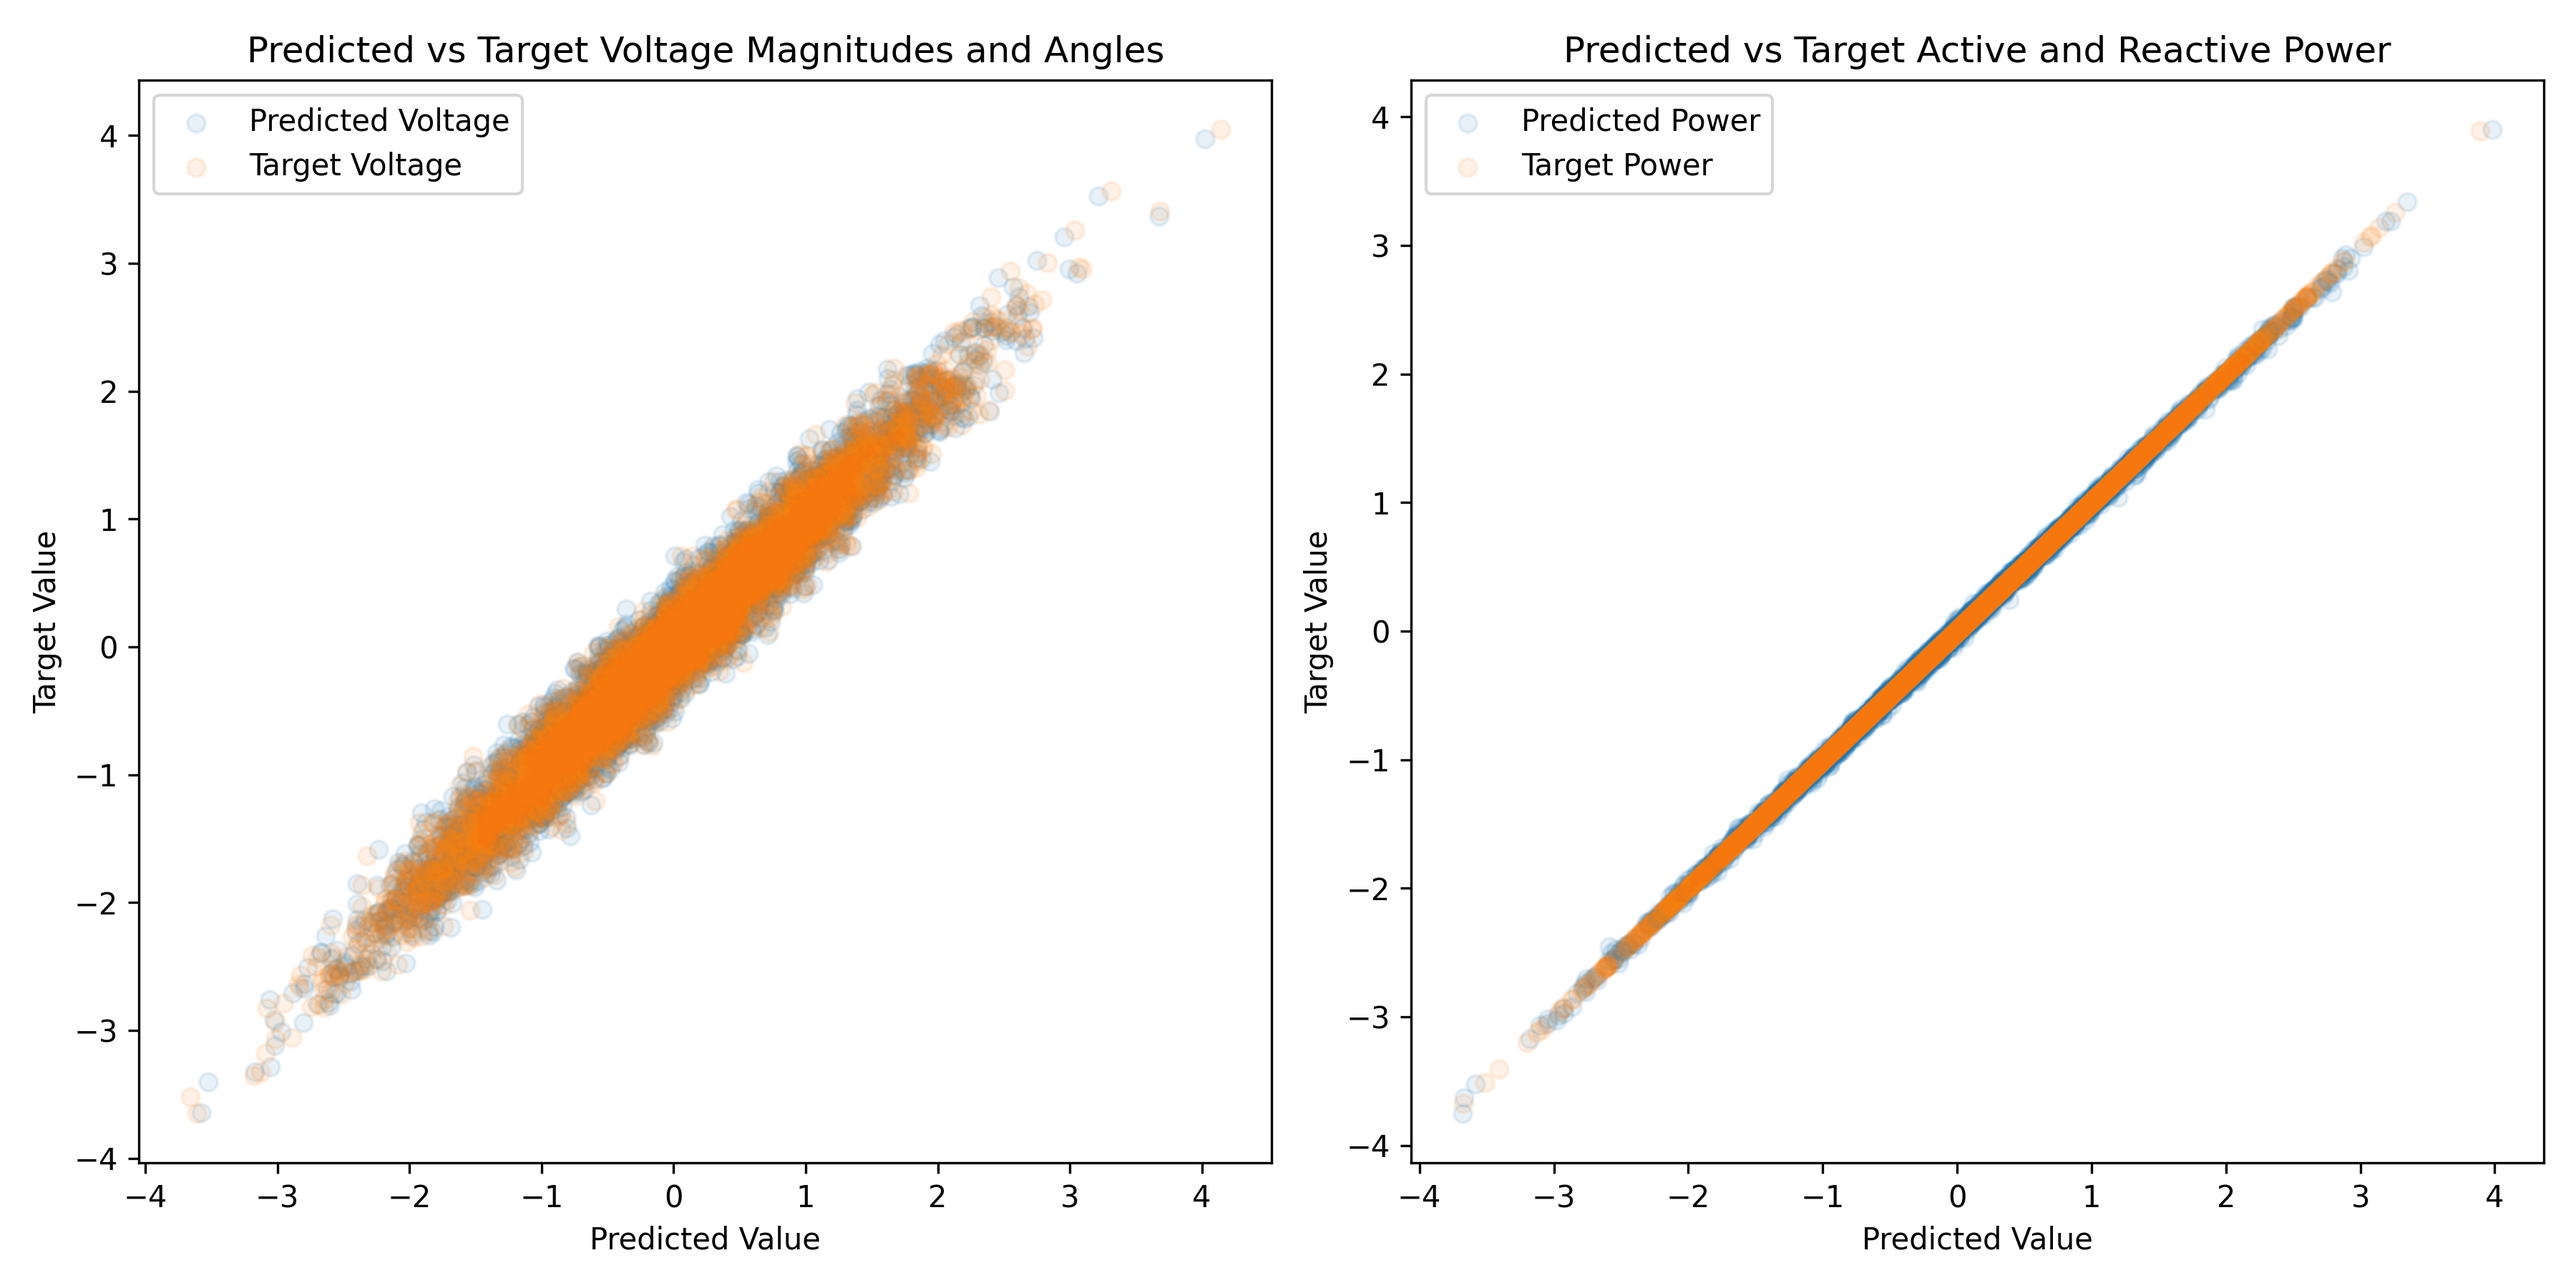
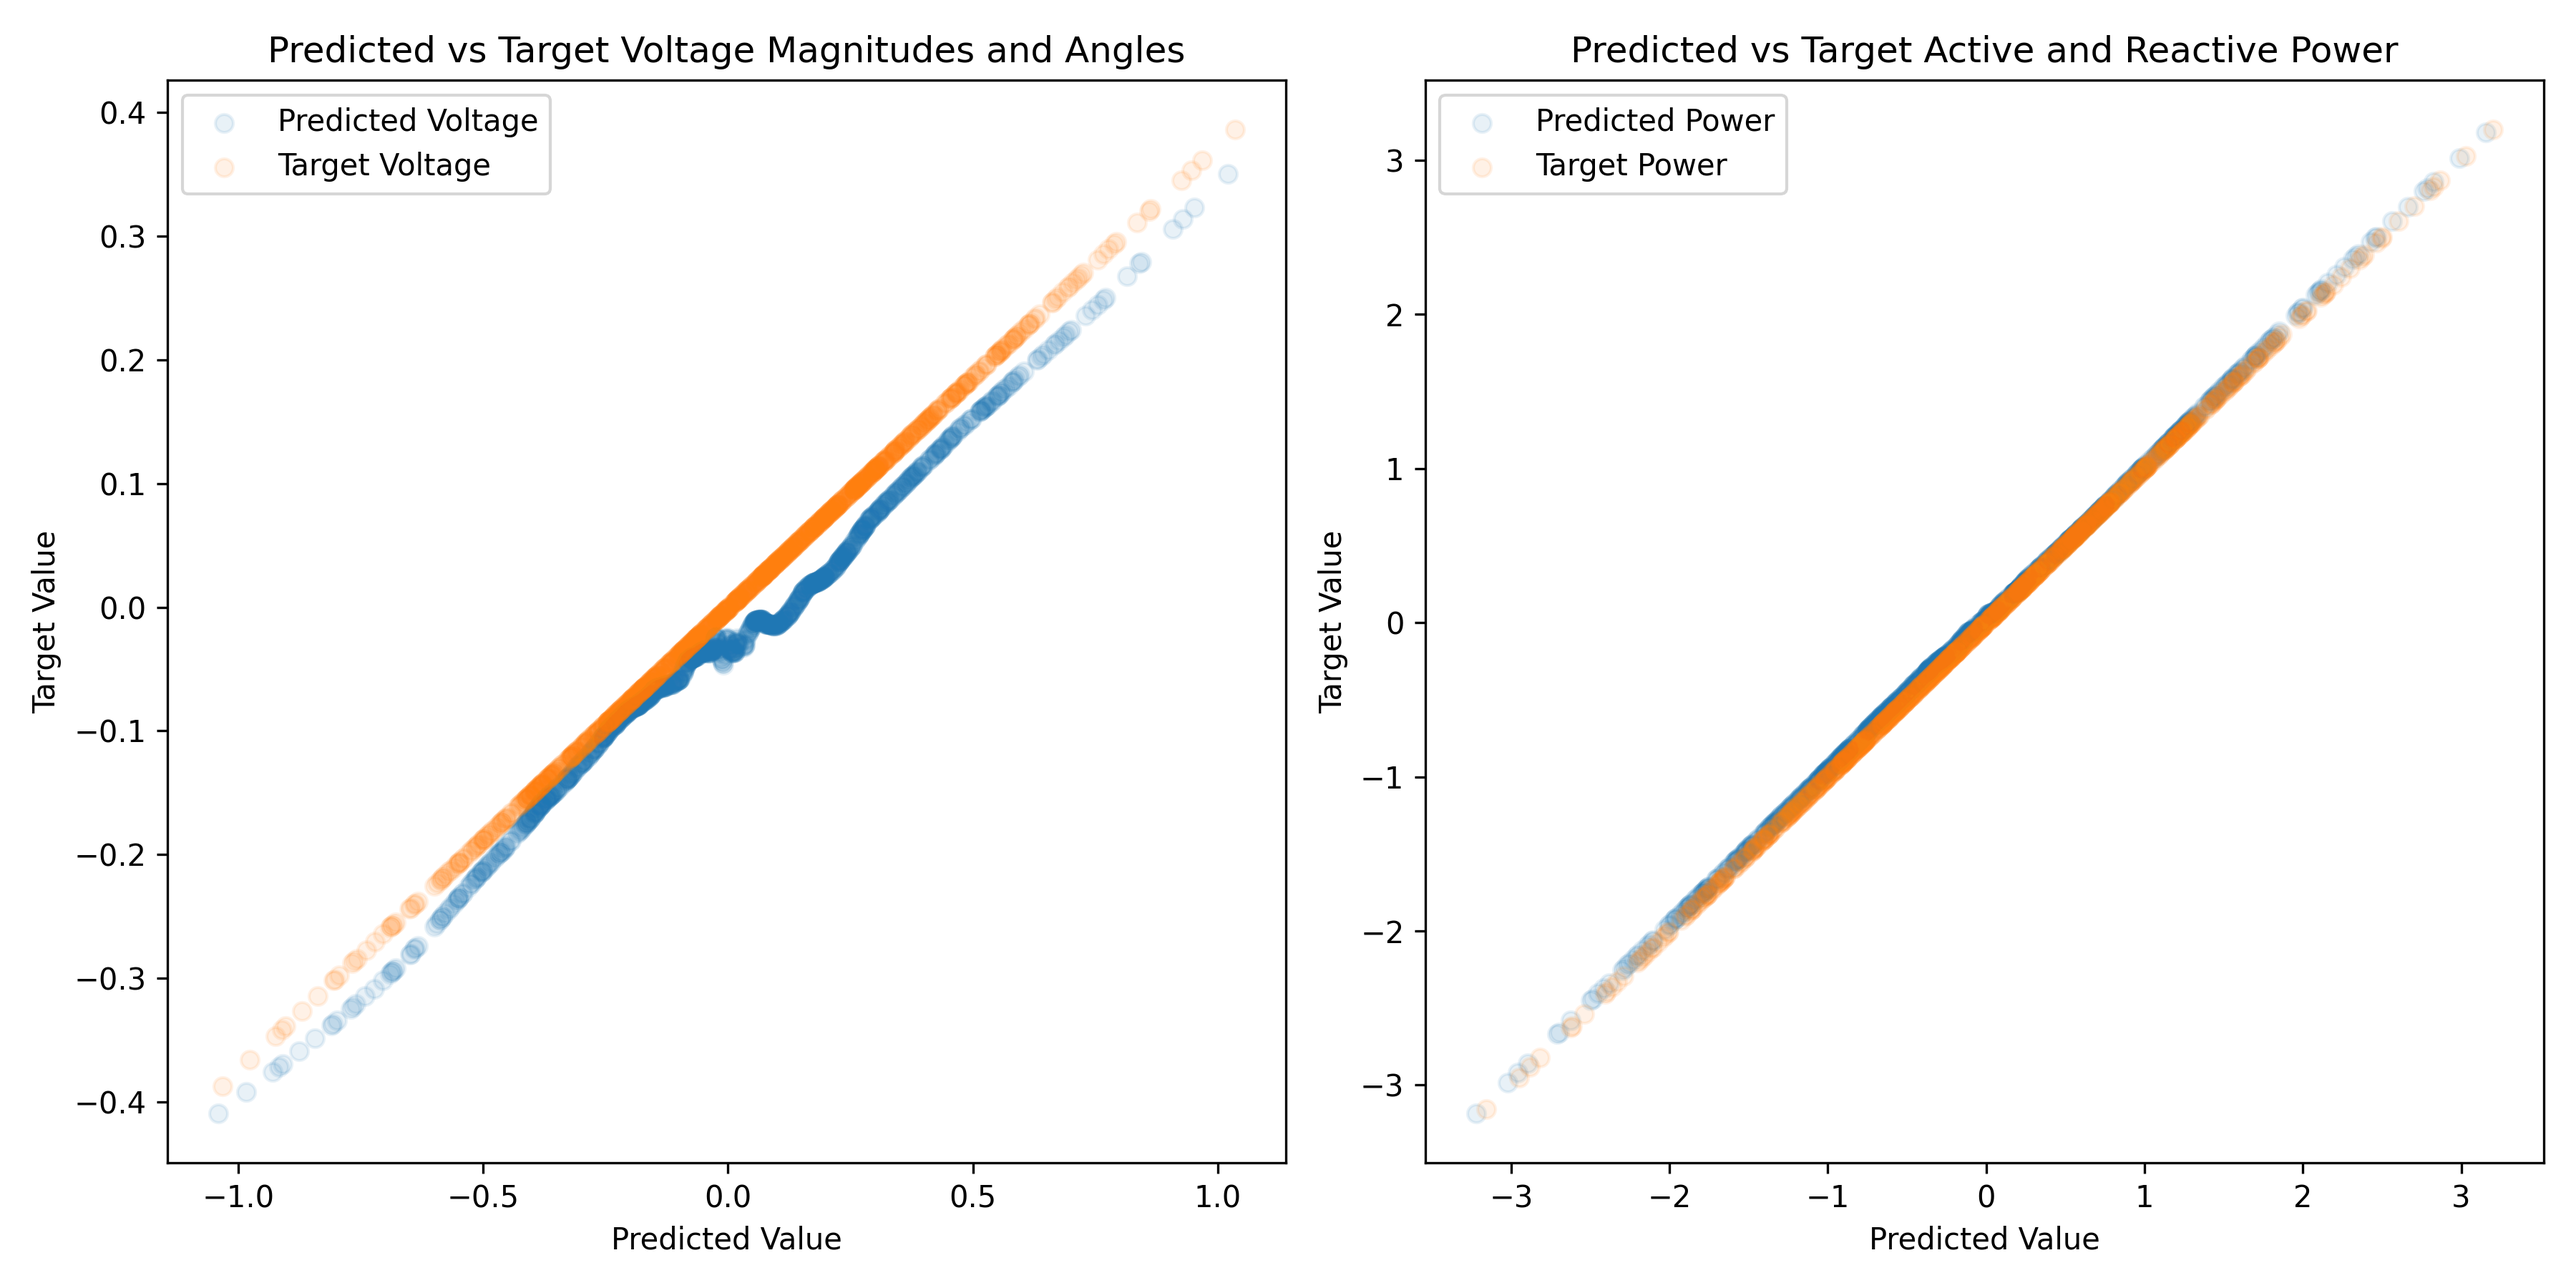
add plot

diff --git a/src/exame/cnice/34node/disaccuracy.py b/src/exame/cnice/34node/disaccuracy.py
@@ -1,0 +1,184 @@
+import os
+import sys
+_parent_dir = os.path.abspath(os.path.join(os.path.dirname(__file__), '..', '..', '..', '..'))
+print(_parent_dir)
+sys.path.append(_parent_dir)
+
+import torch
+import numpy as np
+import pickle
+
+import matplotlib.pyplot as plt
+
+from src.models.cnice.cnicemodel import CNicemModel
+from src.powersystems.node34 import Node34Example
+from src.powersystems.randomsys import magnitude_transform, angle_transform
+from src.utility.scalers import fit_powerflow_scalers
+from src.utility.inversepdf import inverse_pdf_gaussian
+
+
+
+# -----------------------
+# Configureation
+# -----------------------
+num_nodes = 34
+# num_children = 3
+power_factor = 0.2
+
+split_ratio = 0.5
+n_blocks = 3
+hiddemen_dim = 128
+c_dim = (num_nodes - 1) * 2
+n_layers = 4
+input_dim = 2  # Assuming each node has a real and imaginary part
+hiddemen_dim_condition = 128
+output_dim_condition = 1
+n_layers_condition = 2
+
+batch_size = 1000
+device = torch.device("cuda" if torch.cuda.is_available() else "cpu")
+save_path = 'src/training/cnice/savedmodel'
+
+
+# -----------------------
+# Initialize the random system　model and scalers
+# -----------------------
+random_sys = Node34Example()
+mean_vector = [50 + i*2 for i in range(num_nodes)]  # Example mean vector
+mean_vector = np.array(mean_vector).astype(float)
+print(f"Mean vector: {mean_vector[1:].shape}, {mean_vector[1:]}")
+
+# Initialize the NICE model
+nice_model = CNicemModel(
+    input_dim=input_dim,
+    hidden_dim=hiddemen_dim,
+    condition_dim=c_dim,
+    n_layers=n_layers,
+    split_ratio=split_ratio,
+    n_blocks=n_blocks,
+    hidden_dim_condition=hiddemen_dim_condition,
+    output_dim_condition=output_dim_condition,
+    n_layers_condition=n_layers_condition
+).to(device)
+print(f"Model Parameters: {sum(p.numel() for p in nice_model.parameters() if p.requires_grad)}")
+
+# Load the model and scalers
+model_path = os.path.join(save_path, f"cnicemodel_{num_nodes}.pth")
+nice_model.load_state_dict(torch.load(model_path, map_location=device))
+
+scalers = {}
+path_scalers = os.path.join(save_path, f'scalers_{num_nodes}.pkl')
+with open(path_scalers, 'rb') as f:
+    scalers = pickle.load(f)
+# Load the scalers
+scaler_vm = scalers['scaler_vm']
+scaler_va = scalers['scaler_va']
+scaler_p = scalers['scaler_p']
+scaler_q = scalers['scaler_q']
+
+# -----------------------    
+# Define the data
+# -----------------------
+# Fix other nodes, vary one node
+p_index = torch.randint(0, num_nodes-1, (1,)).item()  # Random index for the power input
+v_index = p_index
+_active_power_index = np.random.normal(mean_vector[1+p_index], scale=5, size=(batch_size, ))
+_active_power = np.tile(mean_vector[1:], (batch_size, 1))
+_active_power[:, p_index] = _active_power_index
+
+# _active_power = np.random.normal(mean_vector[1:], scale=5, size=(5000, num_nodes-1))  # Power in kW
+_reactive_power = _active_power * power_factor
+_solution = random_sys.run(active_power=_active_power, 
+                            reactive_power=_reactive_power)
+_voltage_magnitudes = magnitude_transform(_solution['v'])
+_voltage_angles = angle_transform(_solution['v'])
+
+# Scale the data
+scaled_vm = scaler_vm.transform(_voltage_magnitudes)
+scaled_va = scaler_va.transform(_voltage_angles)
+scaled_active_power = scaler_p.transform(_active_power)
+scaled_reactive_power = scaler_q.transform(_reactive_power)
+
+# Concat the data
+concat_vm_va = np.concatenate((scaled_vm, scaled_va), axis=1)
+concat_active_reactive = np.concatenate((scaled_active_power, scaled_reactive_power), axis=1)
+
+# ----------------------- 
+# Evaluate the model
+# ----------------------- 
+input_power = torch.tensor(concat_active_reactive, device=device, dtype=torch.float32)
+target_voltage = torch.tensor(concat_vm_va, device=device, dtype=torch.float32)
+
+input_x = torch.cat((input_power[:, p_index].unsqueeze(1), input_power[:, p_index+num_nodes-1].unsqueeze(1)), dim=1)  # shape (batch_size, 2)
+input_c = input_power.clone()
+output_y = torch.cat((target_voltage[:, v_index].unsqueeze(1),
+                      target_voltage[:, v_index+num_nodes-1].unsqueeze(1)), dim=1)
+
+
+nice_model.eval()
+with torch.no_grad():
+    pre_v, _jaf = nice_model.forward(input_x, input_c, index_p=p_index, index_v=v_index)
+    # fake_output_y = pre_v + torch.randn_like(output_y) * 0.1
+    pre_p, _jai = nice_model.inverse(output_y, input_c, index_p=p_index, index_v=v_index)
+    
+pre_v = pre_v.cpu().numpy()
+pre_p = pre_p.cpu().numpy()
+print(f"pre_v: {pre_v.shape}, pre_p: {pre_p.shape}")
+
+# Plot the pre_v and pre_p and real and target
+plt.figure(figsize=(12, 6))
+plt.subplot(1, 2, 1)
+plt.scatter(pre_v[:, 0], pre_v[:, 1], label='Predicted Voltage', alpha=0.1)
+plt.scatter(output_y[:, 0].cpu().numpy(), output_y[:, 1].cpu().numpy(), label='Target Voltage', alpha=0.1)
+plt.title('Predicted vs Target Voltage Magnitudes and Angles')
+plt.xlabel('Predicted Value')
+plt.ylabel('Target Value')
+plt.legend()
+plt.subplot(1, 2, 2)
+plt.scatter(pre_p[:, 0], pre_p[:, 1], label='Predicted Power', alpha=0.1)
+plt.scatter(input_x[:, 0].cpu().numpy(), input_x[:, 1].cpu().numpy(), label='Target Power', alpha=0.1)
+plt.title('Predicted vs Target Active and Reactive Power')
+plt.xlabel('Predicted Value')
+plt.ylabel('Target Value')
+plt.legend()
+plt.tight_layout()
+plt.savefig(f'figures/cnice_{num_nodes}node_accuracy1.png', dpi=300)
+
+# Reconstruct the full voltage and power arrays
+pre_v_total = target_voltage.clone().cpu().numpy()
+pre_p_total = input_power.clone().cpu().numpy()
+pre_v_total[:, v_index] = pre_v[:, 0]
+pre_v_total[:, v_index+num_nodes-1] = pre_v[:, 1]
+pre_p_total[:, p_index] = pre_p[:, 0]
+pre_p_total[:, p_index+num_nodes-1] = pre_p[:, 1]
+
+# Inverse transform the scaled data
+pre_v_total[:, :num_nodes-1] = scaler_vm.inverse_transform(pre_v_total[:, :num_nodes-1])
+pre_v_total[:, num_nodes-1:] = scaler_va.inverse_transform(pre_v_total[:, num_nodes-1:])
+pre_p_total[:, :num_nodes-1] = scaler_p.inverse_transform(pre_p_total[:, :num_nodes-1])
+pre_p_total[:, num_nodes-1:] = scaler_q.inverse_transform(pre_p_total[:, num_nodes-1:])
+
+# pre_v and pre_p scaled back
+pre_vm_scaled = pre_v_total[:, :num_nodes-1]
+pre_va_scaled = pre_v_total[:, num_nodes-1:]
+pre_p_scaled = pre_p_total[:, :num_nodes-1]
+pre_q_scaled = pre_p_total[:, num_nodes-1:]
+
+# Plot the pre_v_scaled and pre_p_scaled and real and target
+plt.figure(figsize=(12, 6))
+plt.subplot(1, 2, 1)
+plt.scatter(pre_vm_scaled[:, p_index], pre_va_scaled[:, p_index], label='Predicted Voltage', alpha=0.1)
+plt.scatter(_voltage_magnitudes[:, p_index], _voltage_angles[:, p_index], label='Target Voltage', alpha=0.1)        
+plt.title('Predicted vs Target Voltage Magnitudes and Angles (Scaled Back)')
+plt.xlabel('Predicted Value')
+plt.ylabel('Target Value')
+plt.legend()
+plt.subplot(1, 2, 2)
+plt.scatter(pre_p_scaled[:, p_index], pre_q_scaled[:, p_index], label='Predicted Power', alpha=0.1)
+plt.scatter(_active_power[:, p_index], _reactive_power[:, p_index], label='Target Power', alpha=0.1)        
+plt.title('Predicted vs Target Active and Reactive Power (Scaled Back)') 
+plt.xlabel('Predicted Value')
+plt.ylabel('Target Value')
+plt.legend()
+plt.tight_layout()
+plt.savefig(f'figures/cnice_{num_nodes}node_accuracy2.png', dpi=300)
